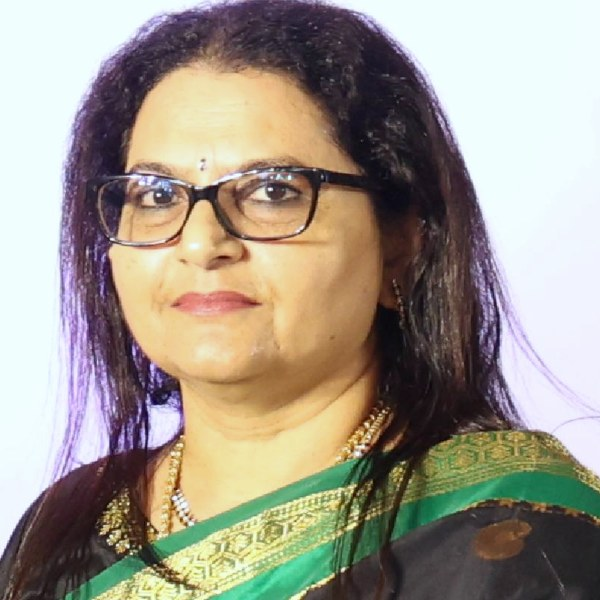
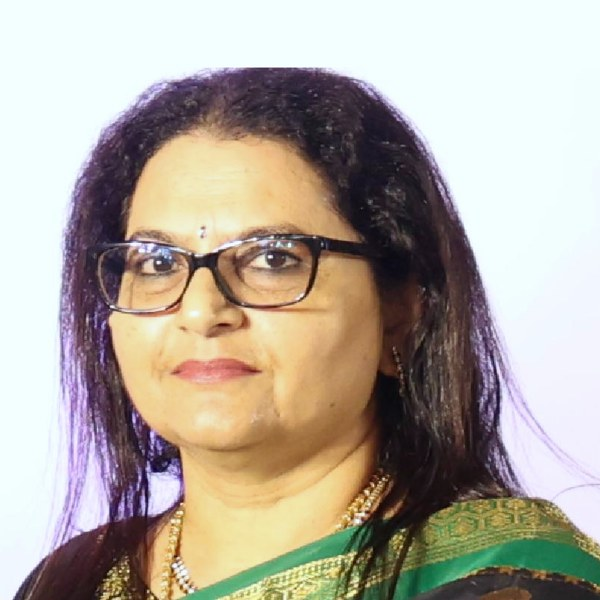
About: Kalita's hair no longer clipped; Aniket before Gautam in last row
Kalita's photo gets extra white background above the head so it sits
lower in the circle. Last row: Website Design and Creation, then Tech
Support.

diff --git a/src/lib/team.ts b/src/lib/team.ts
@@ -80,14 +80,11 @@ export const TEAM: TeamGroup[] = [
   },
   { title: "Logistics In-charge", members: [member("Shrirang Date", "shrirang-date")] },
   {
-    title: "Tech Support",
-    pairWithNext: true, // always beside Website Design and Creation
-    members: [member("Gautam Banik", "gautam-banik")],
-  },
-  {
     title: "Website Design and Creation",
+    pairWithNext: true, // always beside Tech Support
     members: [member("Aniket Kanade", "aniket-kanade")],
   },
+  { title: "Tech Support", members: [member("Gautam Banik", "gautam-banik")] },
   // 2025 groups, kept for reference but not shown
   {
     title: "Moderators (2025)",

diff --git a/claude.md b/claude.md
@@ -112,7 +112,7 @@ Non-talk items need only `kind`, `title`, `day` and times; their body is shown i
 
 ### About page (`/about`)
 - Mission, Vision and Festival History carried over verbatim from the previous edition's About page, plus the 2026 entry.
-- "Meet Our Team" only (15 Nov 2026), in this order: Dr. Anagha Karkhanis (President, RCTH), Atul Bhide, A S Kumar (Co-Convener, TLF), Dr. Sujata Jadhav, Vasant Bhat (Secretary, RCTH) — `src/lib/team.ts`. Below it (16 Nov 2026), with slightly smaller round photos: TLF-2026 Pillars of Support (Samir Limaye, Vijay Shetty, Yashodhara Bhide); Team TLF-2026 Competitions (Sucheta Rege, Kalita Subramanian, Nandita Ganguly, Aneetha Shetty, Gautam Banik, Shrirang Date); Team TLF-2026 Galleries (Manjiri Limaye, Nilima Nagavkar, Shrirang Date, Madhavi Naik); Logistics In-charge (Shrirang Date); Tech Support (Gautam Banik); Website Design and Creation (Aniket Kanade). Teams take only the width they need and share rows on desktop when they fit; `pairWithNext` keeps Tech Support and Website Design and Creation on the same row. Photos from `ContentReference/AboutPhotos/` (square-cropped on the face) or `public/images/team/`. The 2025 Moderators / Event Management groups stay in the data with `hidden: true`. Members without a photo would show initials; all five now have photos. Team photos are shown in natural colour always (`tone="natural"`) — no sepia and no hover/focus effect.
+- "Meet Our Team" only (15 Nov 2026), in this order: Dr. Anagha Karkhanis (President, RCTH), Atul Bhide, A S Kumar (Co-Convener, TLF), Dr. Sujata Jadhav, Vasant Bhat (Secretary, RCTH) — `src/lib/team.ts`. Below it (16 Nov 2026), with slightly smaller round photos: TLF-2026 Pillars of Support (Samir Limaye, Vijay Shetty, Yashodhara Bhide); Team TLF-2026 Competitions (Sucheta Rege, Kalita Subramanian, Nandita Ganguly, Aneetha Shetty, Gautam Banik, Shrirang Date); Team TLF-2026 Galleries (Manjiri Limaye, Nilima Nagavkar, Shrirang Date, Madhavi Naik); Logistics In-charge (Shrirang Date); Website Design and Creation (Aniket Kanade); Tech Support (Gautam Banik). Teams take only the width they need and share rows on desktop when they fit; `pairWithNext` keeps Website Design and Creation and Tech Support on the same row. Photos from `ContentReference/AboutPhotos/` (square-cropped on the face) or `public/images/team/`. The 2025 Moderators / Event Management groups stay in the data with `hidden: true`. Members without a photo would show initials; all five now have photos. Team photos are shown in natural colour always (`tone="natural"`) — no sepia and no hover/focus effect.
 
 ### Competitions page (`/competitions`)
 - One card per competition: poster (opens full size) beside transcribed details — prompt, word/time limit, languages, prizes, guidelines, eligibility, submission email (or "Submission details to be announced").
